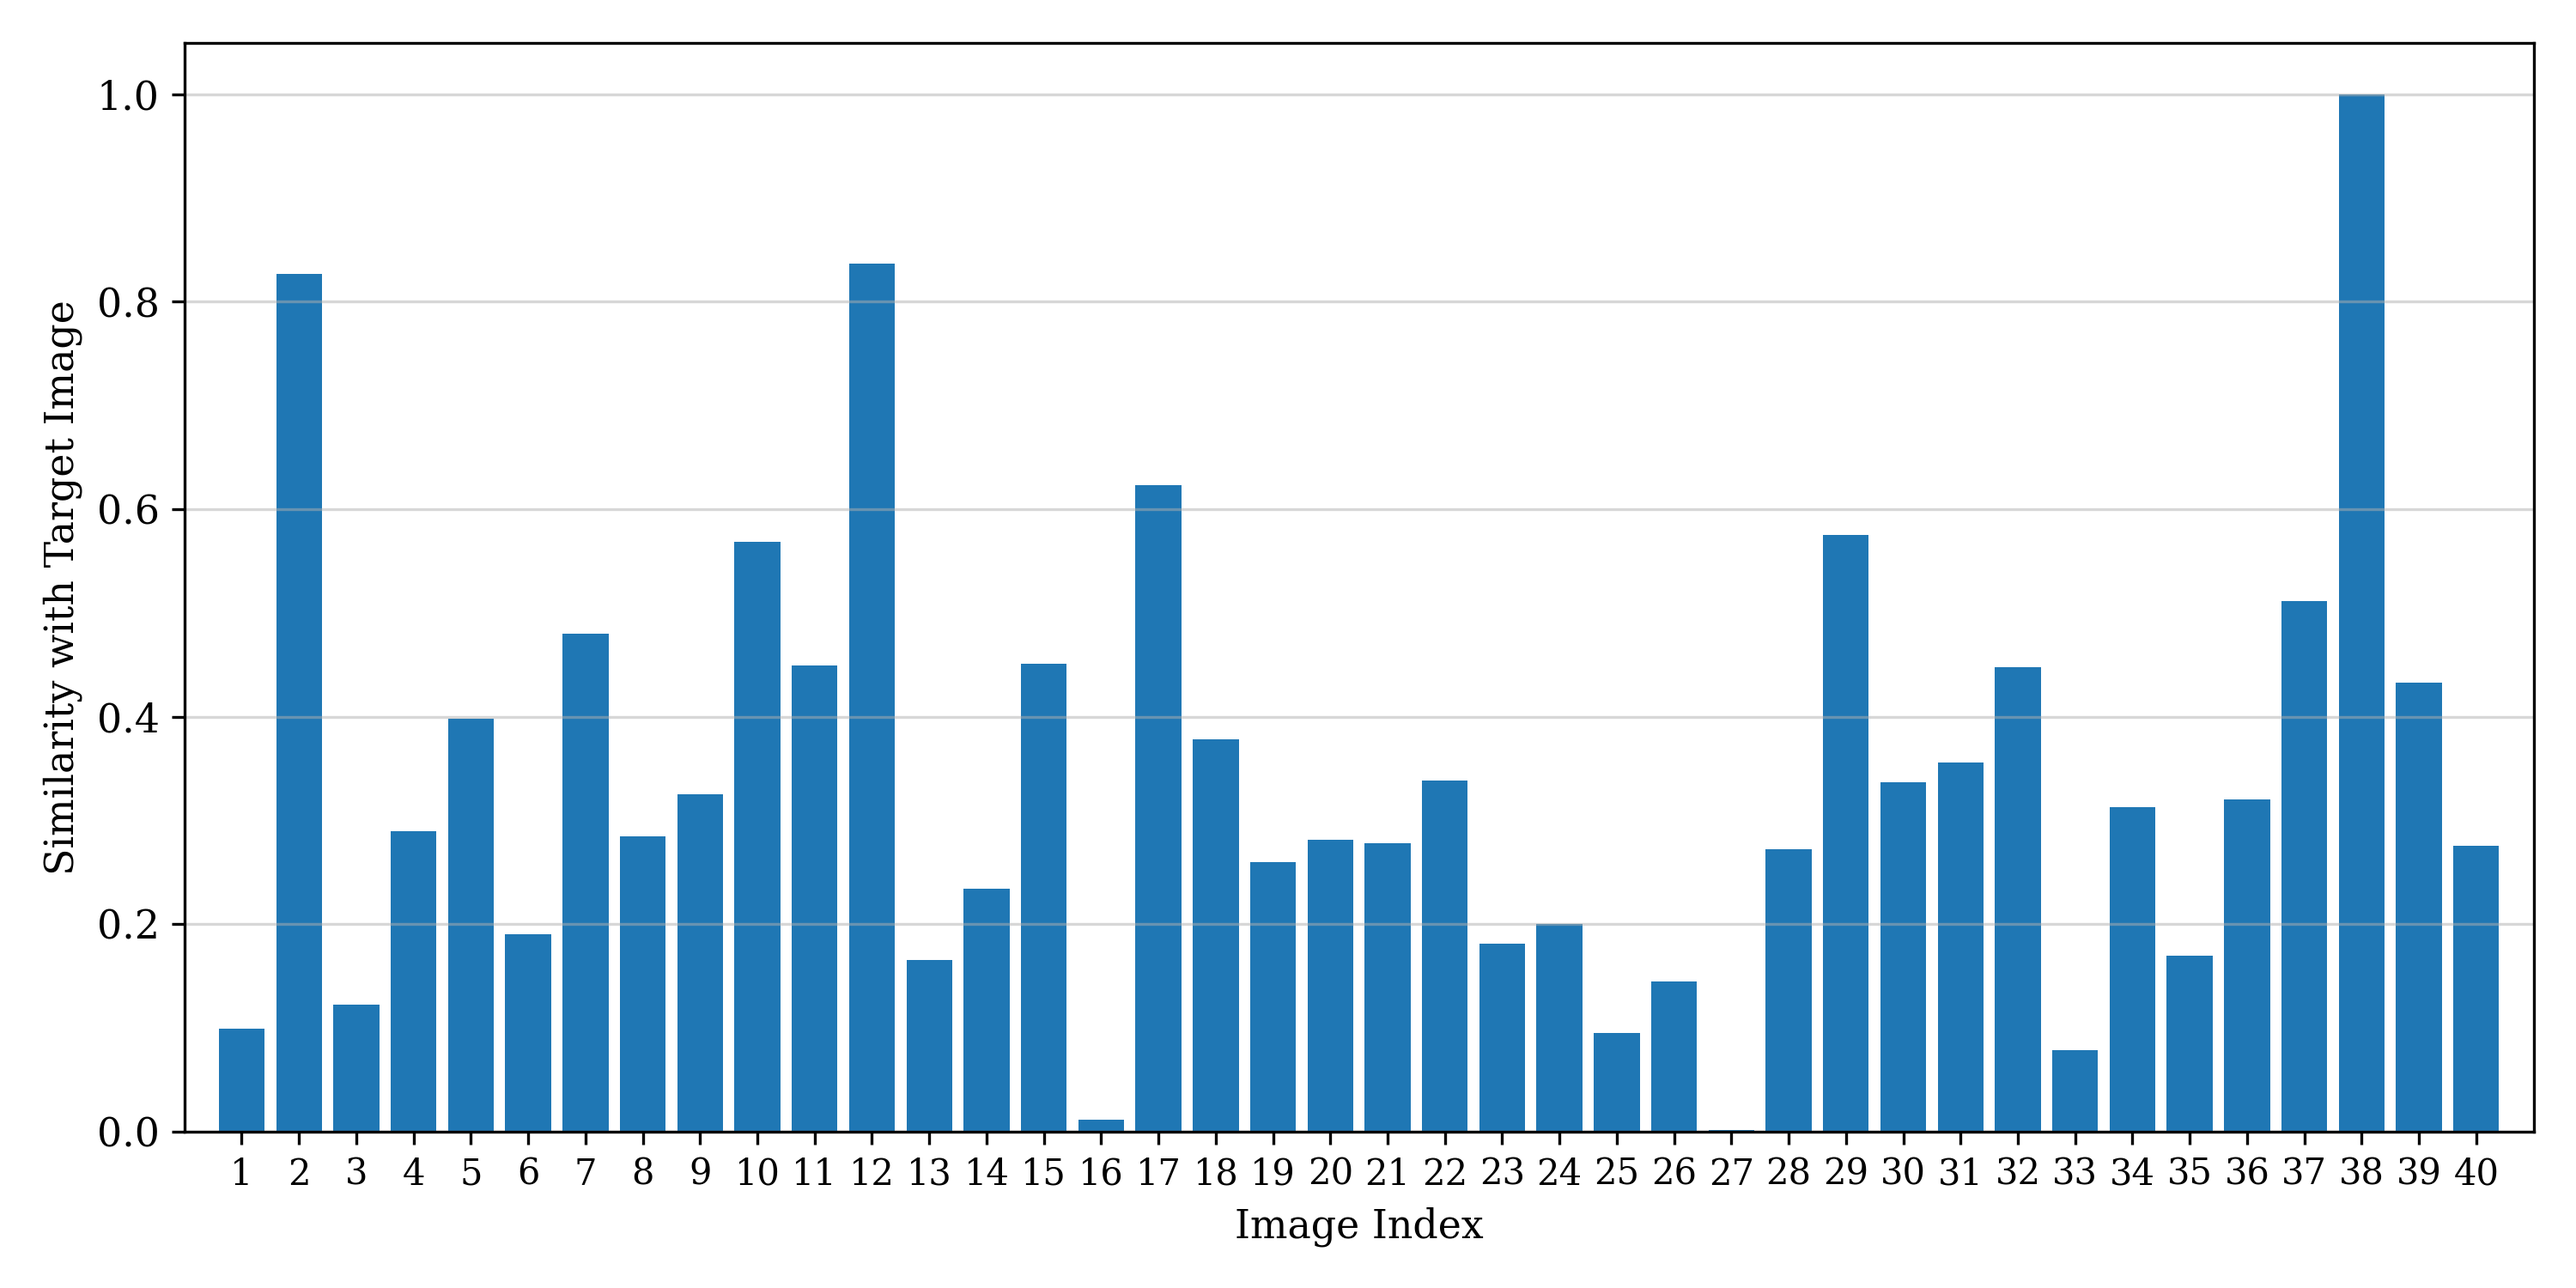
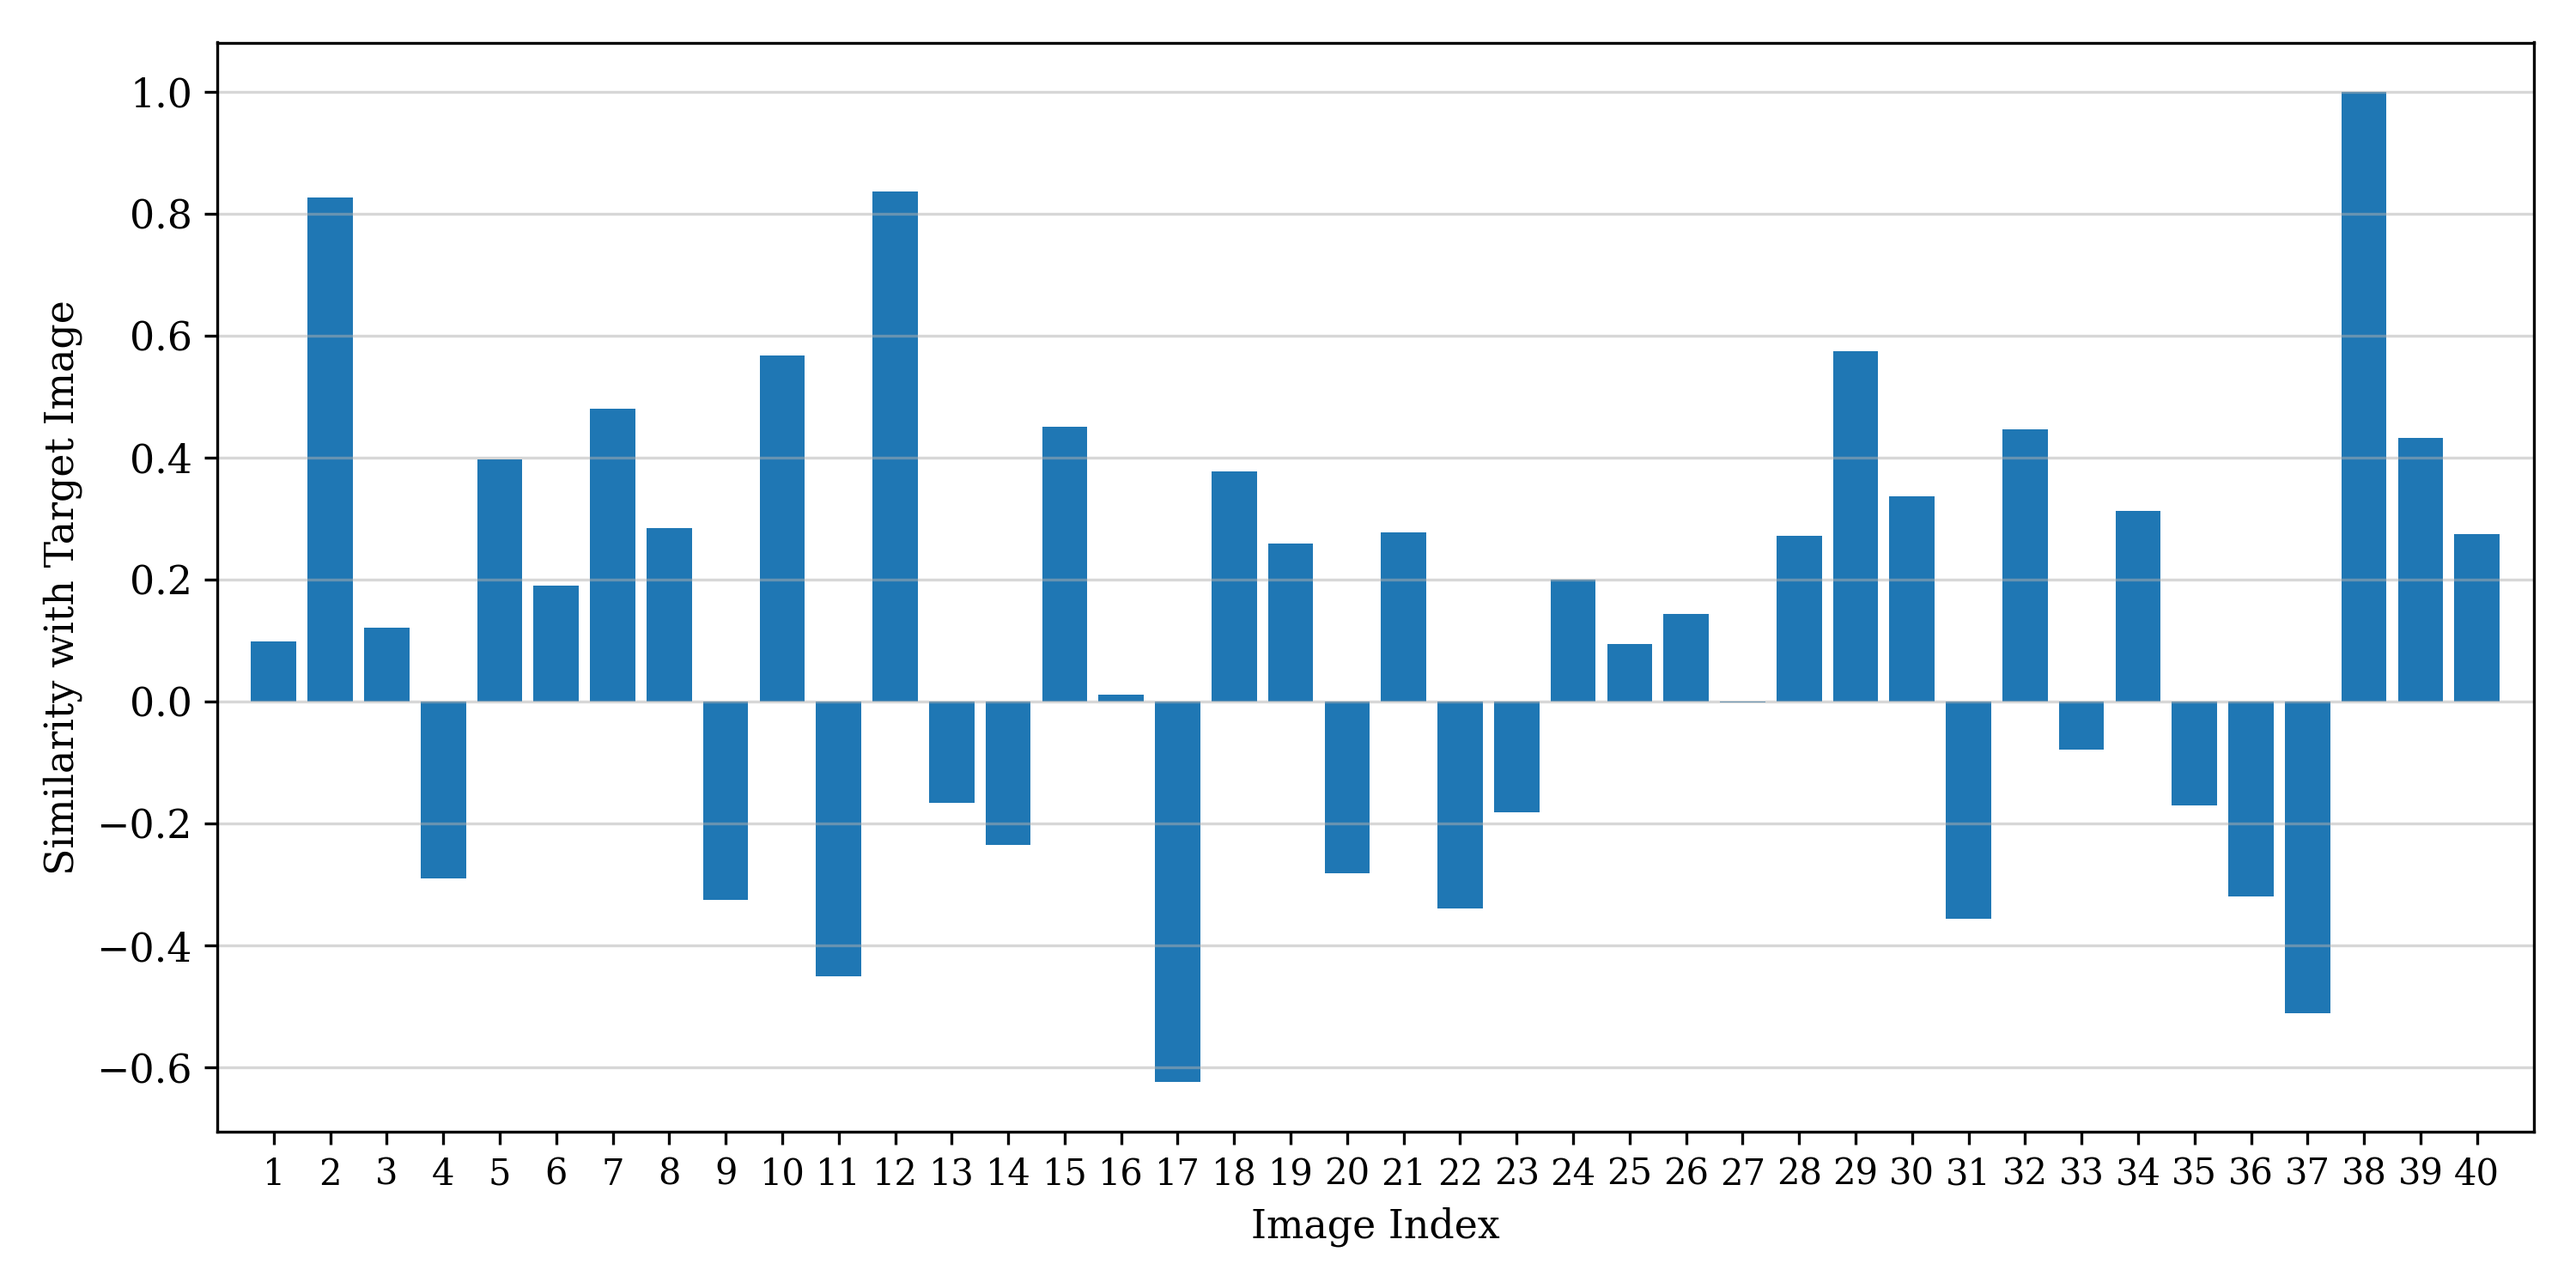
Update src codes

Changed region(s): [[0.031, 0.0307, 0.992, 0.9813], [0.899, 0.2147, 0.93, 0.276], [0.899, 0.1533, 0.93, 0.184]]

diff --git a/src/plot.py b/src/plot.py
@@ -98,7 +98,7 @@ def plot_init_search(
     # Compute the time for LSH initialization and search
     lsh_init_times = []
     lsh_search_times = []
-    for bucket_num in tqdm(bucket_nums, desc="Different Bucket Numbers"):
+    for bucket_num in tqdm(bucket_nums, desc="Different Dimension of Projection Set"):
         indicators = generate_scatter_indicator(bucket_num)
         init_time, search_time = compute_lsh_time(indicators, repeat_times)
         lsh_init_times.append(init_time)
@@ -109,7 +109,7 @@ def plot_init_search(
     # Plot initialization time
     fig, ax1 = plt.subplots(figsize=(8, 6))
     ax1.plot(bucket_nums, lsh_init_times, marker='o', label="Initialization Time", color='tab:blue')
-    ax1.set_xlabel("Number of Buckets")
+    ax1.set_xlabel("Dimension of Projection Set")
     ax1.set_ylabel("Initialization Time (s)", color='tab:blue')
     ax1.set_ylim(min(lsh_init_times) * 0.95, max(lsh_init_times) * 1.05)
     ax1.tick_params(axis='y', labelcolor='tab:blue')
@@ -142,7 +142,7 @@ def plot_lsh_knn(
     
     # Compute the time for LSH search
     lsh_times = []
-    for bucket_num in tqdm(bucket_nums, desc="Different Bucket Numbers"):
+    for bucket_num in tqdm(bucket_nums, desc="Different Dimension of Projection Set"):
         indicators = generate_scatter_indicator(bucket_num)
         _, lsh_time = compute_lsh_time(indicators, (1, repeat_times))
         lsh_times.append(lsh_time)
@@ -154,7 +154,7 @@ def plot_lsh_knn(
     # Plot the speedup
     fig = plt.figure(figsize=(8, 6))
     plt.plot(bucket_nums, speedup, marker='o')
-    plt.xlabel("Number of Buckets")
+    plt.xlabel("Dimension of Projection Set")
     plt.ylabel("Speedup")
     plt.grid(alpha=0.5)
     plt.savefig(save_path, dpi=300)
@@ -176,7 +176,7 @@ def plot_similarity(
         img = Image(f"dataset/{i}.jpg", resnet)
         img_vec = img.feature_vec
         img_vec = img_vec / np.linalg.norm(img_vec)
-        similarities.append(abs(np.dot(target_vec, img_vec)))
+        similarities.append(np.dot(target_vec, img_vec))
         
     fig = plt.figure(figsize=(10, 5))
     plt.bar(range(1, 41), similarities)
@@ -194,7 +194,8 @@ def plot_similarity(
 def main():
     # plot_lsh_knn(range(1, 25), 100, "results/time_comp_new.png")
     # plot_init_search(range(1, 25), (500, 100), "results/time_init_search_new.png")
-    # plot_similarity(resnet=False)
+    plot_similarity(resnet=True)
+    # print(generate_scatter_indicator(4))
     pass
 
 if __name__ == '__main__':

diff --git a/src/main.py b/src/main.py
@@ -12,7 +12,7 @@ def parse_args(args):
     """
     parser = argparse.ArgumentParser()
     parser.add_argument("--image-dir", type=str, default="dataset", help="Path to folder containing dataset images")
-    parser.add_argument("--type", type=str, choices=["LSH", "KNN", "comp"], default="LSH", help="Choose the algorithm to use")
+    parser.add_argument("--type", type=str, choices=["LSH", "NN", "comp"], default="LSH", help="Choose the algorithm to use")
     parser.add_argument("--indicator", type=list, default=[1, 8, 16, 24], help="Projection indicators for LSH")
     parser.add_argument("--resnet", type=bool, default=False, help="Use ResNet to generate feature vector")
     parser.add_argument("--target-dir", type=str, default="target.jpg", help="path to the target image")
@@ -39,7 +39,7 @@ def get_image_paths(input_dir, extensions = ("jpg", "jpeg", "png", "bmp")):
 def main(args):
     args = parse_args(args)
 
-    tasks = ["LSH", "KNN"] if args.type == "comp" else [args.type]
+    tasks = ["LSH", "NN"] if args.type == "comp" else [args.type]
 
     for type in tasks:
         searcher = LSH(args.indicator, args.resnet) if type == "LSH" else KNN(args.resnet)
@@ -60,9 +60,9 @@ def main(args):
         print()
         print(f"{type}:")
         if type == "LSH":
-            print(f"Indicator:{args.indicator}")
-        print("Most similar image:", result_path)
-        print("Time taken:", finish_time - start_time)
+            print(f"Projection Set:{args.indicator}")
+        print(f"Most similar image: {result_path}")
+        print(f"Time taken: {finish_time - start_time}s")
 
     if args.type == "comp":
         speed_up = knn_time / lsh_time

diff --git a/src/lsh.py b/src/lsh.py
@@ -26,7 +26,7 @@ class LSH:
         Add a dataset image to the hash table
         """
         img = Image(img_path, self.resnet, self.normalize)
-        hash_val = tuple(self._projection(img.feature_vec, self.indicators))
+        hash_val = self._projection(img.feature_vec, self.indicators)
         if hash_val not in self.hash_tab:
             self.hash_tab[hash_val] = [img_path]
         else:
@@ -40,7 +40,7 @@ class LSH:
         Search for the most similar image in the dataset
         """
         image = Image(img_path, self.resnet, self.normalize)
-        hash_val = tuple(self._projection(image.feature_vec, self.indicators))
+        hash_val = self._projection(image.feature_vec, self.indicators)
         if hash_val not in self.hash_tab:
             return None
         
@@ -67,7 +67,7 @@ class LSH:
         proj_1 = (indicators - 1) // 2
         proj_2 = (indicators - 1) % 2 + 1
         hash_res = (proj_2 <= feature_vec[proj_1]).astype(np.uint8)
-        return hash_res
+        return tuple(hash_res)
     
     def _calc_dist(
             self,

diff --git a/src/preprocess.py b/src/preprocess.py
@@ -33,7 +33,7 @@ def extract_color_feature(
     """
     Generate color feature vector for the given image
     """
-    H, W, C = img.shape
+    H, W, C = img.shape 
     half_H, half_W = H // 2, W // 2
     
     # Calculate the sum of RGB values in each quadrant
@@ -43,9 +43,10 @@ def extract_color_feature(
             quadrant = img[i * half_H: (i + 1) * half_H, j * half_W: (j + 1) * half_W]
             quadrant_sum = np.sum(quadrant, axis=(0, 1))
             if normalize:
-                rgb.extend(quadrant_sum / np.linalg.norm(quadrant_sum))
+                rgb.extend(quadrant_sum / np.sum(quadrant_sum))
             else:
                 rgb.extend(quadrant_sum)
+    rgb = np.array(rgb)
 
     # Generate feature vector
     lb = min(rgb) + (max(rgb) - min(rgb)) / 3
